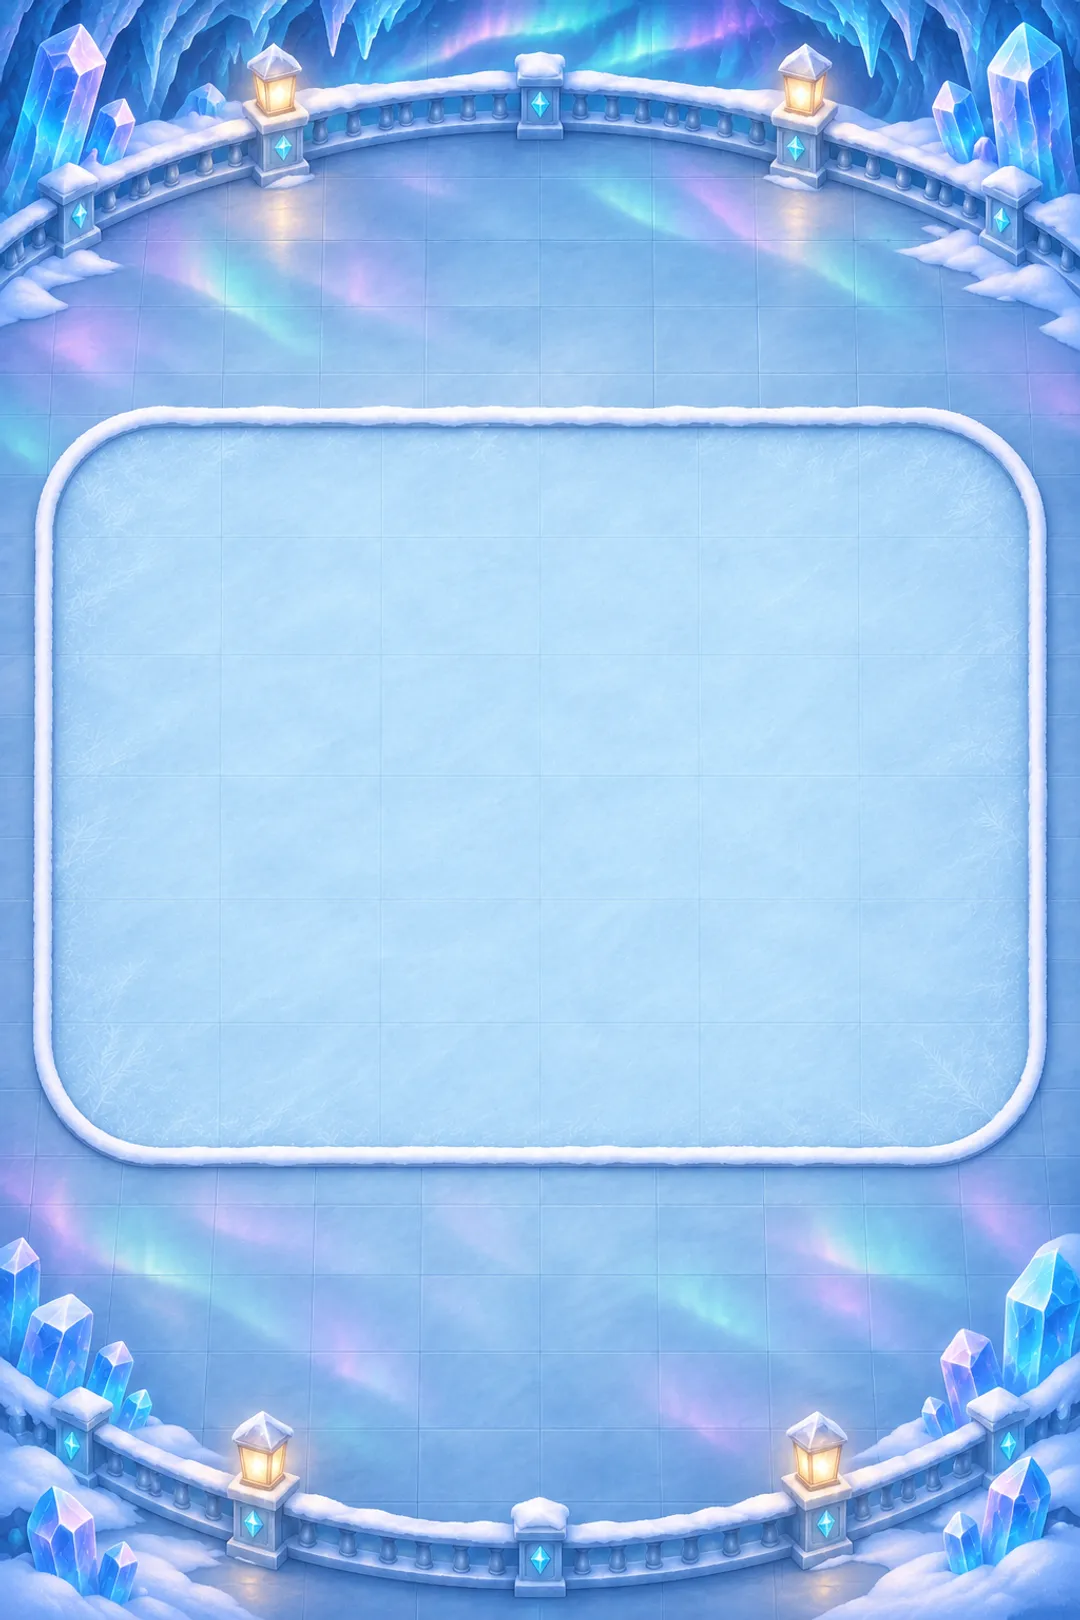
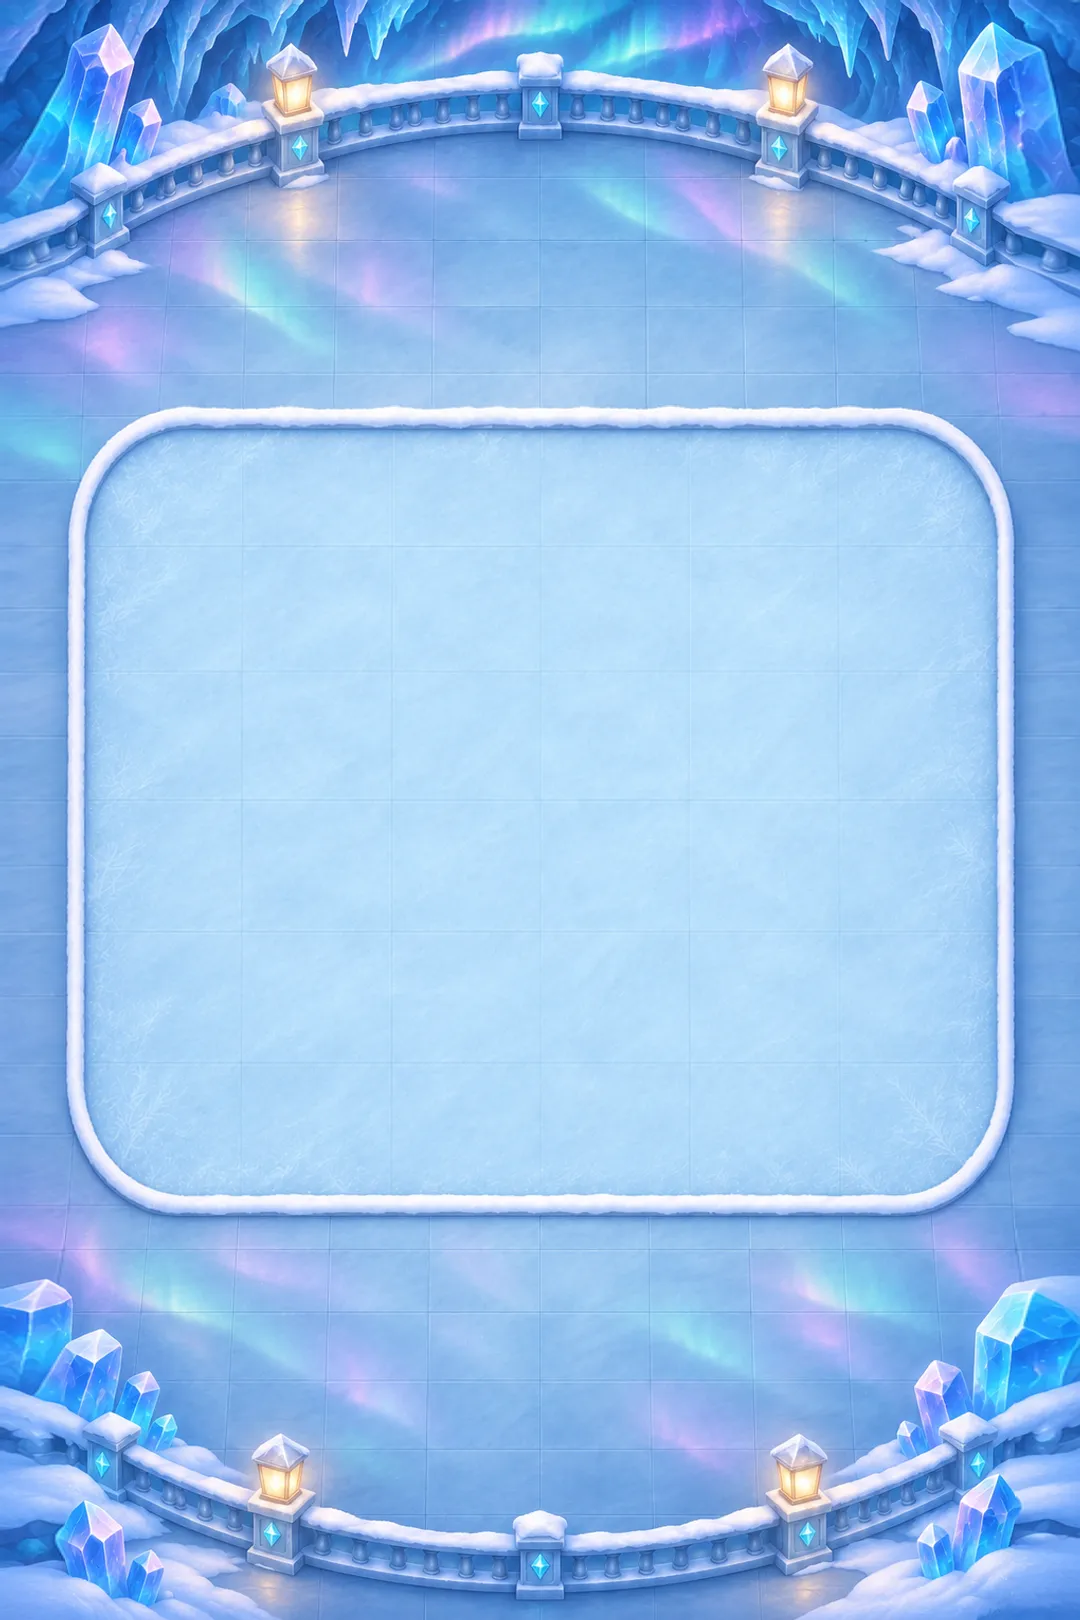
그림 72: 경기장 판 위치를 지정 범위에 맞춤

Changed region(s): [[0.0, 0.0, 1.0, 1.0], [0.55, 0.0, 1.0, 0.216]]

diff --git a/public/sw.js b/public/sw.js
@@ -7,7 +7,7 @@
 // switches to it (and reloads) only when no exam or practice is on screen.
 
 // BUILD:START (generated by server/build-assets.mjs, do not edit by hand)
-const ASSET_HASH = '5860934c83e594da';
+const ASSET_HASH = 'bf84653734fc1b7d';
 const PRECACHE = ["/app.bundle.css","/app.js","/boot-guard.js","/icon.svg","/inapp.js","/","/manifest.webmanifest","/modules/arcade-games.js","/modules/arcade.js","/modules/arena-art.js","/modules/arena-deco-rules.js","/modules/arena-deco.js","/modules/arena-live-rules.js","/modules/arena-live.js","/modules/arena-practice-rules.js","/modules/arena-practice.js","/modules/arena-rank-rules.js","/modules/arena-rank-ui.js","/modules/arena-rules.js","/modules/arena-sfx.js","/modules/arena-stage.js","/modules/arena.js","/modules/battle-bot.js","/modules/battle-engine.js","/modules/battle-fx.js","/modules/battle-questions.js","/modules/battle.js","/modules/blank-rules.js","/modules/bracket-tv.js","/modules/card-levelup.js","/modules/celebrate.js","/modules/character.js","/modules/class-tv.js","/modules/claw-art.js","/modules/claw-fx.js","/modules/claw-physics.js","/modules/claw-rules.js","/modules/claw.js","/modules/core.js","/modules/dungeon-fit.js","/modules/dungeon-fx.js","/modules/dungeon.js","/modules/emblems.js","/modules/entry-art.js","/modules/fish-art.js","/modules/fishing-art.js","/modules/fishing-rules.js","/modules/flashcards.js","/modules/friend-sheet.js","/modules/game-icons.js","/modules/hunt-rules.js","/modules/hunt.js","/modules/league-ui.js","/modules/lucky.js","/modules/market.js","/modules/match-game.js","/modules/match-rules.js","/modules/monster-art.js","/modules/monster-regions.js","/modules/monsters.js","/modules/party-tv.js","/modules/party.js","/modules/pet-art.js","/modules/pet-growth.js","/modules/pet-moments.js","/modules/petbook.js","/modules/playground-menu.js","/modules/reel-feel.js","/modules/reel-rules.js","/modules/reel.js","/modules/reward-events-ui.js","/modules/rewards.js","/modules/rps.js","/modules/sessions.js","/modules/sheet.js","/modules/sound.js","/modules/stocks.js","/modules/streak-guard-ui.js","/modules/streak-guard.js","/modules/student.js","/modules/teacher-activity.js","/modules/teacher-records.js","/modules/teacher.js","/modules/timing-daily-ui.js","/modules/timing-rules.js","/modules/timing.js","/modules/titles-ui.js","/modules/titles.js","/modules/tournament-ui.js","/modules/ui.js","/modules/wall-rules.js","/modules/wall.js","/modules/word-minigame-ui.js","/modules/word-minigame.js","/modules/yabawi-art.js","/modules/yabawi-rules.js","/modules/yabawi.js","/practice-enhancements.js","/pwa.js","/student-enhancements.js","/sumus-logo-green.svg"];
 // BUILD:END
 

diff --git a/docs/asset-requests/runner/DONE_72.md b/docs/asset-requests/runner/DONE_72.md
@@ -4,15 +4,16 @@
 
 | 그림 | 파일 | 크기 | 용량 |
 |---|---|---:|---:|
-| 72-1 벚꽃 광장 | `public/assets/arena/floor-plaza.webp` | 1080×1620 | 129KB |
-| 72-2 숲 | `public/assets/arena/floor-forest.webp` | 1080×1620 | 148KB |
-| 72-3 밤 | `public/assets/arena/floor-night.webp` | 1080×1620 | 106KB |
-| 72-4 하늘 정원 | `public/assets/arena/floor-sky.webp` | 1080×1620 | 205KB |
-| 72-5 얼음 동굴 | `public/assets/arena/floor-glacier.webp` | 1080×1620 | 106KB |
-| 72-6 화산 | `public/assets/arena/floor-volcano.webp` | 1080×1620 | 103KB |
-| 72-7 은하 | `public/assets/arena/floor-galaxy.webp` | 1080×1620 | 134KB |
+| 72-1 벚꽃 광장 | `public/assets/arena/floor-plaza.webp` | 1080×1620 | 126.5KB |
+| 72-2 숲 | `public/assets/arena/floor-forest.webp` | 1080×1620 | 143.3KB |
+| 72-3 밤 | `public/assets/arena/floor-night.webp` | 1080×1620 | 100.7KB |
+| 72-4 하늘 정원 | `public/assets/arena/floor-sky.webp` | 1080×1620 | 193.3KB |
+| 72-5 얼음 동굴 | `public/assets/arena/floor-glacier.webp` | 1080×1620 | 101.4KB |
+| 72-6 화산 | `public/assets/arena/floor-volcano.webp` | 1080×1620 | 99.5KB |
+| 72-7 은하 | `public/assets/arena/floor-galaxy.webp` | 1080×1620 | 129.0KB |
 
 - 다시 그린 횟수: 각 시트 0회.
+- 좌표 보정: 생성 그림의 판이 좌우로 넓고 아래가 짧아, WebP 변환에서 판을 가로 6~94%·세로 25~75% 영역 안에 맞췄다.
 - 눈으로 확인 필요: 실제 전투 화면에서 펫·이펙트의 가독성, 판 테두리의 가로 6~94%·세로 25~75% 배치, 7장 간 판 위치와 두께의 일치 여부.
 - `npm run build:assets`: 통과.
 - `npm run check:cloudflare`: 통과.
